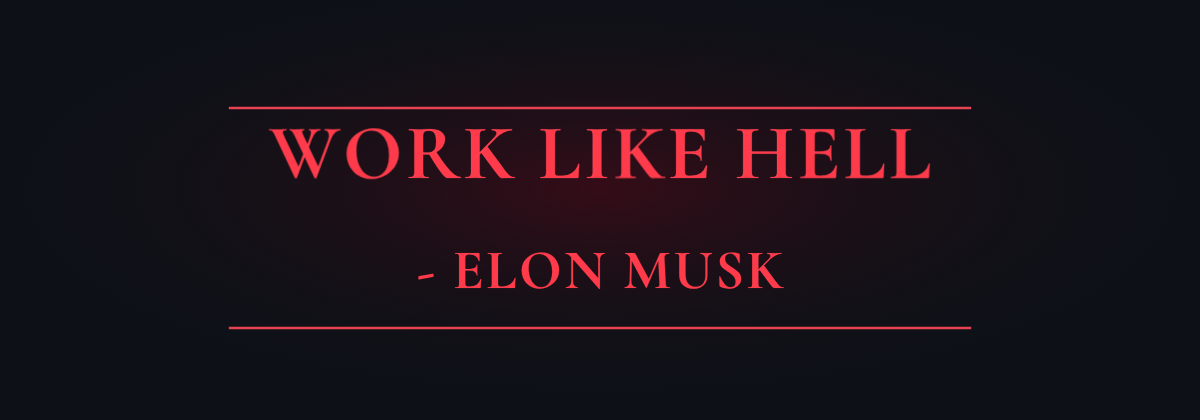
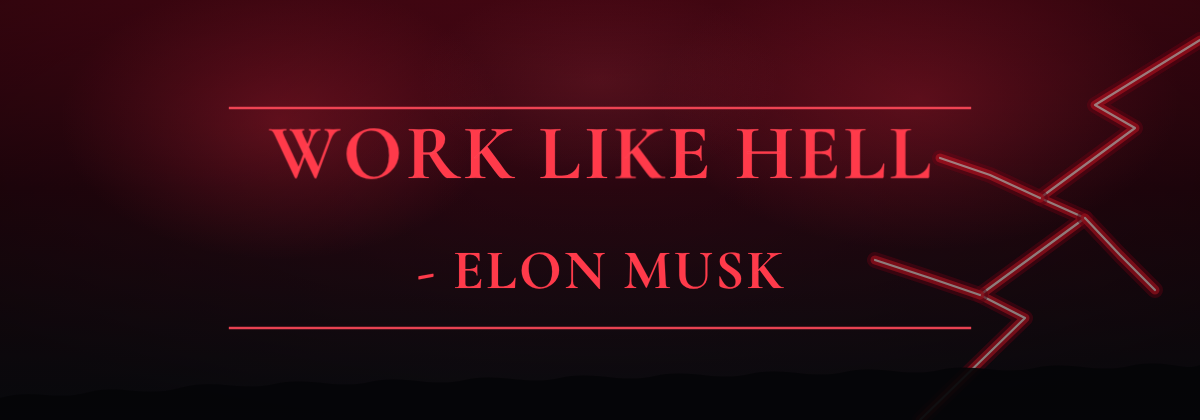
Upside Down lightning: white cores, branches, red sky, treeline
Match reference look with layered crimson glow, branching bolts, cloud wash, and bottom silhouette while keeping 4.5s strike timing.

diff --git a/assets/make_readout.py b/assets/make_readout.py
@@ -17,100 +17,77 @@ OUT_SVG = ROOT / "readout.svg"
 LINE1 = "WORK LIKE HELL"
 LINE2 = "- ELON MUSK"
 
-# (id, points, delay seconds, major | minor)
-BOLTS: list[tuple[str, list[tuple[float, float]], float, str]] = [
+STRIKE_PERIOD_S = 4.5
+
+# Each bolt: id, delay, kind, list of polylines (each polyline is point list)
+BoltSpec = tuple[str, float, str, list[list[tuple[float, float]]]]
+
+BOLT_SPECS: list[BoltSpec] = [
     (
         "bolt-a",
-        [
-            (180, 0),
-            (198, 62),
-            (172, 78),
-            (205, 145),
-            (188, 158),
-            (215, 230),
-            (192, 248),
-            (220, 320),
-            (200, 335),
-            (228, 420),
-        ],
         0.0,
         "major",
+        [
+            [(0, 55), (95, 110), (62, 135), (155, 205), (118, 228), (210, 310), (175, 332), (290, 420)],
+            [(155, 205), (205, 188), (248, 165)],
+            [(118, 228), (85, 268), (55, 302)],
+            [(210, 310), (260, 295), (310, 275)],
+        ],
     ),
     (
         "bolt-b",
-        [
-            (1020, 20),
-            (1002, 95),
-            (1030, 110),
-            (998, 190),
-            (1025, 205),
-            (1005, 280),
-            (1035, 295),
-            (1010, 360),
-            (1040, 380),
-            (1015, 420),
-        ],
         0.08,
         "major",
+        [
+            [(1200, 40), (1095, 105), (1135, 128), (1040, 198), (1085, 218), (980, 295), (1025, 318), (920, 420)],
+            [(1040, 198), (990, 175), (940, 158)],
+            [(1085, 218), (1120, 255), (1155, 290)],
+            [(980, 295), (930, 278), (875, 260)],
+        ],
     ),
     (
         "bolt-c",
-        [
-            (320, 40),
-            (338, 120),
-            (312, 132),
-            (345, 210),
-            (328, 225),
-            (352, 300),
-        ],
         0.0,
         "minor",
+        [
+            [(420, 0), (445, 75), (428, 92), (460, 165), (442, 182), (468, 250)],
+            [(460, 165), (495, 148), (520, 130)],
+        ],
     ),
     (
         "bolt-d",
-        [
-            (880, 55),
-            (862, 130),
-            (890, 145),
-            (868, 220),
-            (895, 240),
-            (875, 310),
-        ],
         0.05,
         "minor",
+        [
+            [(780, 0), (758, 88), (778, 102), (745, 178), (768, 195), (738, 265)],
+            [(745, 178), (715, 160), (688, 145)],
+        ],
     ),
     (
         "bolt-e",
-        [
-            (560, 0),
-            (548, 70),
-            (572, 85),
-            (545, 160),
-            (568, 175),
-            (550, 250),
-            (575, 265),
-            (552, 340),
-        ],
         0.1,
         "minor",
+        [
+            [(600, 0), (615, 62), (598, 78), (628, 145), (608, 162), (635, 228)],
+        ],
     ),
     (
         "bolt-f",
-        [
-            (680, 0),
-            (698, 88),
-            (672, 102),
-            (705, 185),
-            (688, 198),
-            (710, 275),
-        ],
         0.15,
         "minor",
+        [
+            [(350, 25), (368, 95), (352, 110), (382, 185), (365, 200), (390, 270)],
+        ],
+    ),
+    (
+        "bolt-g",
+        0.12,
+        "minor",
+        [
+            [(850, 20), (832, 90), (848, 105), (820, 175), (838, 190), (812, 255)],
+        ],
     ),
 ]
-
-# Same cadence as the old RGB glitch layers (4.5s loop, burst ~84-91%).
-STRIKE_PERIOD_S = 4.5
 
 
 def points_to_path(pts: list[tuple[float, float]]) -> str:
@@ -122,20 +99,51 @@ def points_to_path(pts: list[tuple[float, float]]) -> str:
     return " ".join(parts)
 
 
+def bolt_group(bolt_id: str, delay: float, kind: str, polylines: list[list[tuple[float, float]]]) -> str:
+    if kind == "major":
+        outer_w, mid_w, core_w = 16, 9, 2.2
+    else:
+        outer_w, mid_w, core_w = 10, 5.5, 1.4
+
+    paths = "".join(
+        f'<path d="{points_to_path(pts)}" class="bolt-outer" stroke-width="{outer_w}"/>'
+        f'<path d="{points_to_path(pts)}" class="bolt-mid" stroke-width="{mid_w}"/>'
+        f'<path d="{points_to_path(pts)}" class="bolt-core" stroke-width="{core_w}"/>'
+        for pts in polylines
+    )
+    return f'  <g class="lightning {kind} {bolt_id}" style="animation-delay:{delay}s">{paths}</g>'
+
+
 def lightning_svg() -> str:
-    chunks: list[str] = []
-    for bolt_id, pts, delay, kind in BOLTS:
-        d = points_to_path(pts)
-        anim = "strike-major" if kind == "major" else "strike-minor"
-        sw_core = "2.4" if kind == "major" else "1.6"
-        sw_glow = "8" if kind == "major" else "5"
-        chunks.append(
-            f'  <g class="lightning {kind} {bolt_id}" style="animation-delay:{delay}s">'
-            f'<path d="{d}" class="bolt-glow" stroke-width="{sw_glow}"/>'
-            f'<path d="{d}" class="bolt-core" stroke-width="{sw_core}"/>'
-            f"</g>"
-        )
-    return "\n".join(chunks)
+    return "\n".join(bolt_group(*spec) for spec in BOLT_SPECS)
+
+
+def treeline_svg() -> str:
+    # Jagged forest silhouette along the bottom (Upside Down treeline)
+    return """
+  <path class="trees" d="M 0 420 L 0 398
+    C 35 388, 55 402, 90 392 C 120 384, 145 398, 180 388
+    C 215 378, 240 392, 275 384 C 310 376, 335 390, 370 382
+    C 405 374, 430 388, 465 380 C 500 372, 525 386, 560 378
+    C 595 370, 620 384, 655 376 C 690 368, 715 382, 750 374
+    C 785 366, 810 380, 845 372 C 880 364, 905 378, 940 370
+    C 975 362, 1000 376, 1035 368 C 1070 360, 1095 374, 1130 366
+    C 1165 358, 1185 372, 1200 365 L 1200 420 Z"/>
+"""
+
+
+def sky_svg() -> str:
+    return """
+  <rect width="1200" height="420" fill="url(#skyBase)"/>
+  <ellipse cx="280" cy="120" rx="220" ry="140" fill="url(#cloudRed)" opacity="0.55"/>
+  <ellipse cx="920" cy="100" rx="260" ry="150" fill="url(#cloudRed)" opacity="0.5"/>
+  <ellipse cx="600" cy="80" rx="180" ry="100" fill="url(#cloudBright)" opacity="0.35"/>
+  <rect width="1200" height="420" fill="url(#skyVignette)"/>
+  <g class="sky-flash">
+    <ellipse cx="300" cy="140" rx="240" ry="160" fill="#ff2840" opacity="0.25"/>
+    <ellipse cx="900" cy="130" rx="280" ry="170" fill="#ff2840" opacity="0.22"/>
+  </g>
+"""
 
 
 def load_font():
@@ -269,28 +277,36 @@ def main() -> None:
     }}
     @keyframes strike-major {{
       0%, 83%, 100% {{ opacity: 0; }}
-      84% {{ opacity: 0.92; }}
-      86% {{ opacity: 0.38; }}
-      88% {{ opacity: 0.68; }}
+      84% {{ opacity: 1; }}
+      86% {{ opacity: 0.35; }}
+      88% {{ opacity: 0.75; }}
       91% {{ opacity: 0; }}
     }}
     @keyframes strike-minor {{
       0%, 100% {{ opacity: 0; }}
       17.8% {{ opacity: 0; }}
-      18.4% {{ opacity: 0.42; }}
+      18.4% {{ opacity: 0.55; }}
       19% {{ opacity: 0; }}
       34.8% {{ opacity: 0; }}
-      35.3% {{ opacity: 0.32; }}
+      35.3% {{ opacity: 0.42; }}
       35.8% {{ opacity: 0; }}
       51.5% {{ opacity: 0; }}
-      52% {{ opacity: 0.36; }}
+      52% {{ opacity: 0.48; }}
       52.5% {{ opacity: 0; }}
       68.2% {{ opacity: 0; }}
-      68.7% {{ opacity: 0.28; }}
+      68.7% {{ opacity: 0.38; }}
       69.2% {{ opacity: 0; }}
       83%, 91% {{ opacity: 0; }}
     }}
+    @keyframes sky-pulse {{
+      0%, 83%, 100% {{ opacity: 0; }}
+      84% {{ opacity: 0.85; }}
+      86% {{ opacity: 0.25; }}
+      88% {{ opacity: 0.65; }}
+      91% {{ opacity: 0; }}
+    }}
     .title {{ animation: neon-flicker {STRIKE_PERIOD_S}s infinite; }}
+    .sky-flash {{ animation: sky-pulse {STRIKE_PERIOD_S}s infinite; opacity: 0; }}
     .lightning.major {{
       animation: strike-major {STRIKE_PERIOD_S}s infinite;
       opacity: 0;
@@ -299,37 +315,51 @@ def main() -> None:
       animation: strike-minor {STRIKE_PERIOD_S}s infinite;
       opacity: 0;
     }}
+    .bolt-outer, .bolt-mid, .bolt-core {{
+      fill: none;
+      stroke-linecap: round;
+      stroke-linejoin: round;
+    }}
+    .bolt-outer {{
+      stroke: #8b0018;
+      opacity: 0.55;
+    }}
+    .bolt-mid {{
+      stroke: #ff1a28;
+      opacity: 0.75;
+    }}
     .bolt-core {{
-      fill: none;
-      stroke: #ff5060;
-      stroke-linecap: round;
-      stroke-linejoin: round;
+      stroke: #fff5ee;
+      opacity: 0.95;
     }}
-    .bolt-glow {{
-      fill: none;
-      stroke: #ff1a30;
-      stroke-linecap: round;
-      stroke-linejoin: round;
-      opacity: 0.35;
-    }}
-    .ambient-bolt {{
-      animation: strike-minor {STRIKE_PERIOD_S}s infinite;
-      opacity: 0;
+    .trees {{
+      fill: #050508;
+      opacity: 0.92;
     }}
   </style>
   <defs>
-    <radialGradient id="mist" cx="50%" cy="45%" r="55%">
-      <stop offset="0%" stop-color="#4a0a18" stop-opacity="0.65"/>
-      <stop offset="100%" stop-color="#0d1117" stop-opacity="0"/>
+    <linearGradient id="skyBase" x1="0" y1="0" x2="0" y2="1">
+      <stop offset="0%" stop-color="#5a0818"/>
+      <stop offset="45%" stop-color="#2a0610"/>
+      <stop offset="100%" stop-color="#0d1117"/>
+    </linearGradient>
+    <radialGradient id="cloudRed" cx="50%" cy="50%" r="50%">
+      <stop offset="0%" stop-color="#ff3048" stop-opacity="0.55"/>
+      <stop offset="100%" stop-color="#ff3048" stop-opacity="0"/>
+    </radialGradient>
+    <radialGradient id="cloudBright" cx="50%" cy="50%" r="50%">
+      <stop offset="0%" stop-color="#ff5868" stop-opacity="0.4"/>
+      <stop offset="100%" stop-color="#ff5868" stop-opacity="0"/>
+    </radialGradient>
+    <radialGradient id="skyVignette" cx="50%" cy="40%" r="65%">
+      <stop offset="0%" stop-color="#000000" stop-opacity="0"/>
+      <stop offset="100%" stop-color="#000000" stop-opacity="0.45"/>
     </radialGradient>
   </defs>
   <rect width="{w}" height="{h}" fill="#0d1117"/>
-  <rect width="{w}" height="{h}" fill="url(#mist)"/>
-  <g class="ambient-bolt" opacity="0.12">
-    <path d="M 450 0 L 465 180 L 440 195 L 470 420" fill="none" stroke="#ff3040" stroke-width="1.5"/>
-    <path d="M 750 0 L 735 200 L 760 215 L 730 420" fill="none" stroke="#ff3040" stroke-width="1.5"/>
-  </g>
+{sky_svg()}
 {bolts}
+{treeline_svg()}
   <line x1="{x0}" y1="108" x2="{x1}" y2="108" stroke="#ff4a5a" stroke-width="2.5" opacity="0.9"/>
   <line x1="{x0}" y1="328" x2="{x1}" y2="328" stroke="#ff4a5a" stroke-width="2.5" opacity="0.9"/>
   <g opacity="0.55">{glow}</g>
